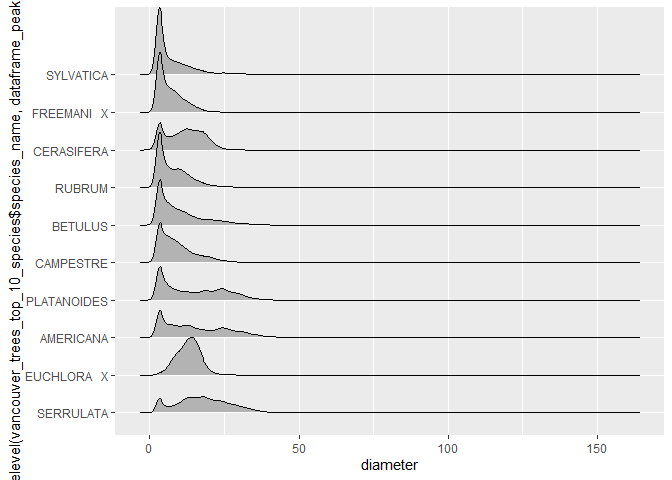
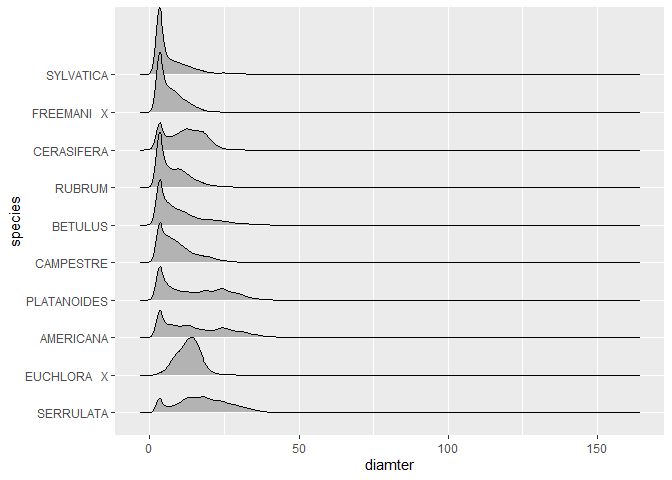
Trouble shooting done

Changed region(s): [[0.0, 0.0, 0.0312, 0.5938], [0.0, 0.625, 0.0312, 1.0], [0.5312, 0.9375, 0.625, 1.0]]

diff --git a/milestone_3/min_data_analysis_milestone_3.md b/milestone_3/min_data_analysis_milestone_3.md
@@ -161,13 +161,11 @@ species names is passed to `fct_relevel()`function for new plotting.
 
 ``` r
   #use fct_level() to change the level of the factors
-  plot_2<-ggplot(vancouver_trees_top_10_species,aes(x=diameter,y=fct_relevel( vancouver_trees_top_10_species$species_name,dataframe_peak_point[[1]])))+ 
-    ggridges::geom_density_ridges()
+  plot_2<-ggplot(vancouver_trees_top_10_species,aes(x=diameter,y=fct_relevel( species_name,dataframe_peak_point[[1]])))+ 
+    ggridges::geom_density_ridges()+
+    labs(x="diamter",y="species")
   print(plot_2)
 ```
-
-    ## Warning: Use of `vancouver_trees_top_10_species$species_name` is discouraged.
-    ## Use `species_name` instead.
 
     ## Picking joint bandwidth of 1.05
 
@@ -214,6 +212,7 @@ column in tibbles indicating which month the trees are planted in.
 ```
 
 ![](min_data_analysis_milestone_3_files/figure-gfm/unnamed-chunk-4-1.png)<!-- -->
+
 Investigating the months when trees are planted might be insightful
 because some months of a year may not be suitable for planing trees. And
 a bar plot is drawn to show the number of trees being planted in the 12
